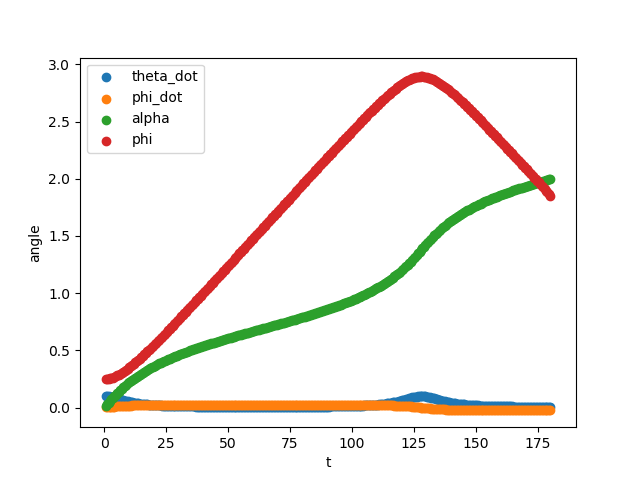
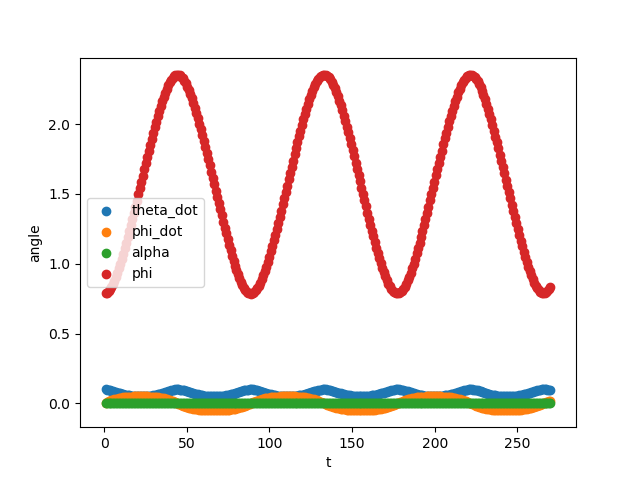
Two flywheel

diff --git a/src/simulate.py b/src/simulate.py
@@ -32,8 +32,8 @@ class state:
         self.max_torque = max_torque
 
         #initial position / velocity
-        #self.angle = np.array([0., .2, 0.])
-        self.angle = np.array([0.,np.random.triangular(.1, .2, .3),0., 0.])
+        self.angle = np.array([0., np.pi/4, 0., 0.])
+        #self.angle = np.array([0.,np.random.triangular(.1, .2, .3),0., 0.])
         self.angle_vel = np.array([.1,0.,0., 0.])
         self.wheel_l = np.array([0.,0.,0.])
         self.t = 0
@@ -50,10 +50,11 @@ class state:
         for i in range(count):
             # convert momentum space command to wheel command
             wheel_action = np.zeros(3)
-            transform = np.array([[np.cos(self.angle[2]), -np.sin(self.angle[2]), 0],
-                         [np.sin(self.angle[2]), np.cos(self.angle[2]), 0],
-                         [0,0,1]])
-            wheel_action = transform.dot(T_action) * np.array([np.sqrt(2), np.sqrt(2), 1]) * self.max_torque
+            #transform = np.array([[np.cos(self.angle[2]), -np.sin(self.angle[2]), 0],
+            #             [np.sin(self.angle[2]), np.cos(self.angle[2]), 0],
+             #            [0,0,1]])
+            #wheel_action = transform.dot(T_action) * np.array([np.sqrt(2), np.sqrt(2), 1]) * self.max_torque
+            wheel_action = np.array([self.max_torque * T_action[0], self.max_torque * T_action[1], 0])
 
             #check bounding on momentum
             upper_torque_lim = self.max_torque * (np.ones(3) - self.wheel_l / self.satr_l)
@@ -97,6 +98,7 @@ class state:
 
             #position updates (Precise step: 1st (2nd?) order runge kutta)
             self.angle += self.angle_vel * dt
+            #self.angle[2] += (self.angle_vel[0] * dt * np.cos(self.angle[1]))
             self.angle[2] = 0
             #if we have crossed over vertical, need to flip some coordinates & velocities
             if self.angle[1] < 0:
@@ -114,11 +116,11 @@ class state:
         fractional_L = self.wheel_l / self.satr_l
         phi_dot_opt = - self.angle[1] / np.sqrt(self.ag)
         reward = - self.reward_consts[0] * np.cos(self.angle[1]) - \
-                 self.reward_consts[1] * fractional_L[1] ** 2 - self.reward_consts[2] (self.angle_vel[1] - phi_dot_opt)**2
-        return [self.t, self.angle, self.angle_vel, self.wheel_l/ self.satr_l], reward
+                 self.reward_consts[1] * fractional_L[1] ** 2 - self.reward_consts[2] * (self.angle_vel[1] - phi_dot_opt)**2
+        return [self.t, self.angle, self.angle_vel, self.wheel_l/ self.satr_l]#, reward
 
     def reset(self):
-        self.angle = np.array([0.,np.random.triangular(.3, .2, .1),0.,0.])
+        self.angle = np.array([0.,np.random.triangular(.1, .2, .3),0.,0.])
         self.angle_vel = np.array([.0,0.,0.,0.])
         self.wheel_l = np.array([0.,0.,0.])
         self.t = 0

diff --git a/src/gyro_bot.py b/src/gyro_bot.py
@@ -11,17 +11,17 @@ def main():
 
     sim = state(mass = 10, length = 1, g=0, L2 = .25, events = [[1, np.array([0,0,0]), np.array([1,1,1]), np.array([1,1,1])]], max_flywheel_l= np.array([1.,1.,1.]), max_torque = np.array([1.,1.,1.]))
     num = 300
-    angles = np.zeros((3, num))
-    angle_vels = np.zeros((3, num))
+    angles = np.zeros((4, num))
+    angle_vels = np.zeros((4, num))
     t = np.zeros(num)
     for i in range(num):
-        new = sim.rough_step(.03, np.array([0,0,0]), 20)
+        new = sim.rough_step(.03, np.array([0,0,0]), 30)
         t[i] = new[0]
         angles[:, i] = new[1]
         angle_vels[:, i] = new[2]
     plt.scatter(t, angle_vels[0,:], label = "theta_dot")
     plt.scatter(t, angle_vels[1, :], label="phi_dot")
-    print(np.max(angles[1,:]))
+    print(np.max(angles[2,:]))
     plt.scatter(t, angles[2,:], label = "alpha")
     plt.scatter(t, angles[1,:], label = "phi")
     plt.xlabel("t")

diff --git a/src/gym.py b/src/gym.py
@@ -38,8 +38,8 @@ class PendulumEnv(gym.Env):
         )
         #Observation Space formatting: [phi, sin(alpha), cos(alpha), facing, d_phi, d_alpha, d_facing, wheel_l1, wheel_l2, wheel_l3]
         self.observation_space = spaces.Box(
-            low=np.array([0, -1., -1., , -self.max_angular_vel, -self.max_angular_vel, -self.max_angular_vel, -1, -1, -1], dtype=np.float32),
-            high=np.array([self.death_pos, 1., 1., , self.max_angular_vel, self.max_angular_vel, self.max_angular_vel, 1, 1, 1], dtype=np.float32),
+            low=np.array([0, -1., -1., -self.max_angular_vel, -self.max_angular_vel, -self.max_angular_vel, -1, -1, -1], dtype=np.float32),
+            high=np.array([self.death_pos, 1., 1., self.max_angular_vel, self.max_angular_vel, self.max_angular_vel, 1, 1, 1], dtype=np.float32),
             shape=(9,),
             dtype=np.float32
         )
